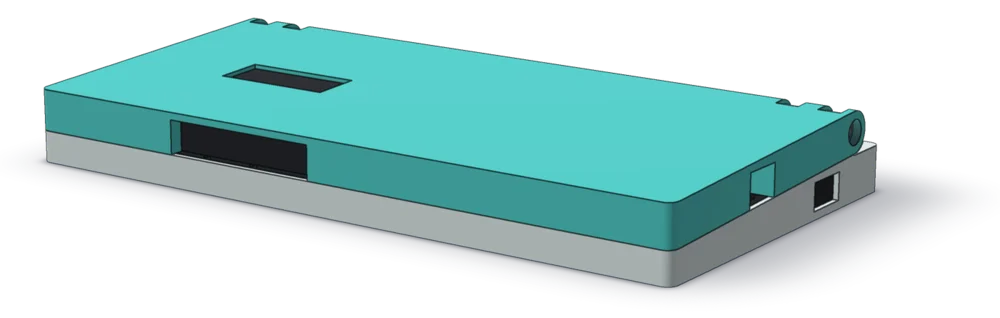
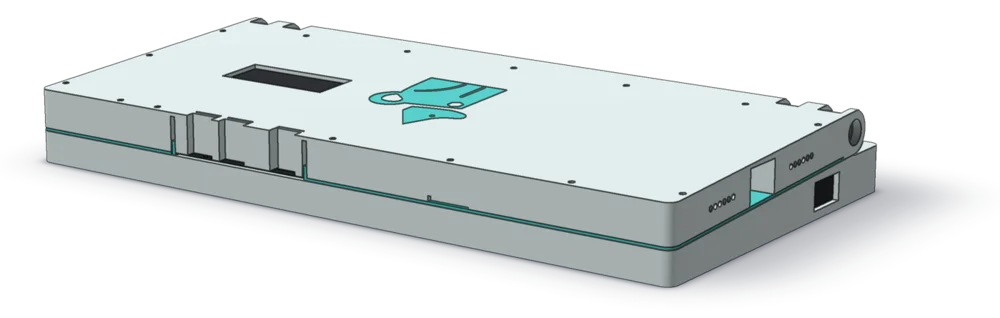
Сайт: прозрачные крышка и база, бирюзовые рамка и логотип; фраза под таблицей версий

diff --git a/index.html b/index.html
@@ -56,8 +56,8 @@
     <p class="status"><strong>Skladen 2.1.1 напечатан и собран.</strong> skladenOS в разработке: готовых образов пока нет.</p>
   </div>
   <figure class="shot">
-    <img src="assets/img/skladen2-photo.jpg" width="1100" height="825" alt="Напечатанный Skladen 2.1.1 на столе, открытый: Pocophone F1 под рамкой на защёлках в бирюзовой крышке, клавиатура Jomaa в прозрачном основании">
-    <figcaption>Skladen 2.1.1: Pocophone F1 в бирюзовой крышке из PETG, клавиатура Jomaa в прозрачном основании. На экране рабочая сборка, из которой вырастает skladenOS.</figcaption>
+    <img src="assets/img/skladen2-photo.jpg" width="1100" height="825" alt="Напечатанный Skladen 2.1.1 на столе, открытый: Pocophone F1 под рамкой на защёлках в прозрачной крышке, клавиатура Jomaa в прозрачном основании, бирюзовые рамка и логотип">
+    <figcaption>Skladen 2.1.1: Pocophone F1 в прозрачной крышке из PETG с бирюзовой рамкой и логотипом, клавиатура Jomaa в прозрачном основании. На экране рабочая сборка, из которой вырастает skladenOS.</figcaption>
   </figure>
 </div>
 
@@ -67,7 +67,7 @@
 <dl class="feat"><dt>Телефон</dt><dd>Xiaomi Pocophone F1, 155,5 × 75,3 × 9,25 мм, 182 г</dd><dt>Клавиатура</dt><dd>Jomaa KEYBOARD098RU</dd><dt>В сложенном виде</dt><dd>24,29 мм у петли, 20,31 мм спереди</dd><dt>Масса</dt><dd>около 403 г по модели</dd></dl>
 <h3>Версии</h3>
 <div class="table-wrap"><table class="ver"><thead><tr><th scope="col">Версия</th><th scope="col">Что это</th><th scope="col">Дата</th></tr></thead><tbody><tr><td><a href="https://github.com/mitya-labs/skladen/tree/v2.1.1">2.1.1</a></td><td>Рёбра обжима и язычки кнопок в крышке с рамкой; напечатан</td><td>2026-10-24</td></tr><tr><td><a href="https://github.com/mitya-labs/skladen/tree/v2.1.0">2.1.0</a></td><td>Skladen 2 с рамкой на защёлках; напечатан</td><td>2026-10-20</td></tr><tr><td><a href="https://github.com/mitya-labs/skladen/tree/v2.0.0">2.0.0</a></td><td>Skladen 2 под Pocophone F1, телефон на ленте; напечатан</td><td>2026-10-06</td></tr><tr><td><a href="https://github.com/mitya-labs/skladen/tree/v1.0.0">1.0.0</a></td><td>Skladen 1 под Pixel 3a XL; напечатан</td><td>2026-10-02</td></tr></tbody></table></div>
-<p class="note">Размеры и масса взяты из модели, замеры напечатанных экземпляров ещё не сведены. Последние правки рамки смоделированы и проверены, на печати не подтверждены.</p>
+<p class="note">Размеры и масса взяты из модели, замеры напечатанных экземпляров ещё не сведены. Рёбра обжима и язычки кнопок в 2.1.1 подтверждены печатью; остальные правки рамки (отверстия для выталкивания, динамик и микрофон, закрытие челки, основание с окном под переключатель) смоделированы и проверены, на печати пока не подтверждены.</p>
 <figure class="render"><img src="assets/img/skladen2-open.webp" width="1000" height="726" alt="Skladen 2, открытый на 112 градусов: в крышке телефон с терминалом, в основании клавиатура" loading="lazy"><figcaption>Открытый на 112°. Рендер из модели; телефон и клавиатура заменены заготовками по измеренным габаритам.</figcaption></figure>
 <figure class="render"><img src="assets/img/skladen2-closed.webp" width="1000" height="318" alt="Skladen 2 в сложенном виде, вид спереди справа" loading="lazy"><figcaption>Сложенный: 24,29 мм у петли.</figcaption></figure>
 <p class="note">Конструкция открыта под CERN-OHL-S-2.0. Исходники, документы и список изменений: <a href="https://github.com/mitya-labs/skladen">репозиторий Skladen</a>.</p>

diff --git a/en/index.html b/en/index.html
@@ -56,8 +56,8 @@
     <p class="status"><strong>Skladen 2.1.1 is printed and assembled.</strong> skladenOS is in development: there are no images yet.</p>
   </div>
   <figure class="shot">
-    <img src="../assets/img/skladen2-photo.jpg" width="1100" height="825" alt="The printed Skladen 2.1.1 on a desk, open: a Pocophone F1 under the clip-on bezel in a teal lid, the Jomaa keyboard in a clear base">
-    <figcaption>Skladen 2.1.1: a Pocophone F1 in a teal PETG lid, the Jomaa keyboard in a clear base. The screen runs the working build skladenOS grows out of.</figcaption>
+    <img src="../assets/img/skladen2-photo.jpg" width="1100" height="825" alt="The printed Skladen 2.1.1 on a desk, open: a Pocophone F1 under the clip-on bezel in a clear lid with a teal bezel and logo, the Jomaa keyboard in a clear base">
+    <figcaption>Skladen 2.1.1: a Pocophone F1 in a clear PETG lid with a teal bezel and logo, the Jomaa keyboard in a clear base. The screen runs the working build skladenOS grows out of.</figcaption>
   </figure>
 </div>
 
@@ -67,7 +67,7 @@
 <dl class="feat"><dt>Phone</dt><dd>Xiaomi Pocophone F1, 155.5 × 75.3 × 9.25 mm, 182 g</dd><dt>Keyboard</dt><dd>Jomaa KEYBOARD098RU</dd><dt>Closed</dt><dd>24.29 mm at the hinge, 20.31 mm at the front</dd><dt>Mass</dt><dd>about 403 g by the model</dd></dl>
 <h3>Versions</h3>
 <div class="table-wrap"><table class="ver"><thead><tr><th scope="col">Version</th><th scope="col">What</th><th scope="col">Date</th></tr></thead><tbody><tr><td><a href="https://github.com/mitya-labs/skladen/tree/v2.1.1">2.1.1</a></td><td>Crush ribs and button tongues in the bezel lid; printed</td><td>2026-10-24</td></tr><tr><td><a href="https://github.com/mitya-labs/skladen/tree/v2.1.0">2.1.0</a></td><td>Skladen 2 with the clip-on bezel; printed</td><td>2026-10-20</td></tr><tr><td><a href="https://github.com/mitya-labs/skladen/tree/v2.0.0">2.0.0</a></td><td>Skladen 2 for the Pocophone F1, phone held by tape; printed</td><td>2026-10-06</td></tr><tr><td><a href="https://github.com/mitya-labs/skladen/tree/v1.0.0">1.0.0</a></td><td>Skladen 1 for the Pixel 3a XL; printed</td><td>2026-10-02</td></tr></tbody></table></div>
-<p class="note">Dimensions and mass come from the model; measurements of the printed units are not collected yet. The latest bezel revisions are modelled and checked but not confirmed on a print.</p>
+<p class="note">Dimensions and mass come from the model; measurements of the printed units are not collected yet. The crush ribs and button tongues of 2.1.1 are confirmed on a print; the other bezel revisions (eject holes, speaker and microphone openings, the notch cover, the switch-window base) are modelled and checked but not yet confirmed.</p>
 <figure class="render"><img src="../assets/img/skladen2-open.webp" width="1000" height="726" alt="Skladen 2 rendered open at 112 degrees: the phone in the lid showing a terminal, the keyboard in the base" loading="lazy"><figcaption>Open at 112°. A render from the model; the phone and keyboard are stand-ins built from their measured envelopes.</figcaption></figure>
 <figure class="render"><img src="../assets/img/skladen2-closed.webp" width="1000" height="318" alt="Skladen 2 rendered closed, seen from the front right" loading="lazy"><figcaption>Closed: 24.29 mm at the hinge.</figcaption></figure>
 <p class="note">The design is open under CERN-OHL-S-2.0. Sources, docs and the changelog: the <a href="https://github.com/mitya-labs/skladen">Skladen repository</a>.</p>

diff --git a/tools/build.py b/tools/build.py
@@ -141,8 +141,8 @@ RU = dict(
     h1="Палмтоп из телефона и клавиатуры",
     lede="Mitya Labs делает Skladen: напечатанный на 3D-принтере палмтоп, который превращает Xiaomi Pocophone F1 в карманный терминал в форме ноутбука, и skladenOS, систему для него.",
     status="<strong>Skladen 2.1.1 напечатан и собран.</strong> skladenOS в разработке: готовых образов пока нет.",
-    photo_alt="Напечатанный Skladen 2.1.1 на столе, открытый: Pocophone F1 под рамкой на защёлках в бирюзовой крышке, клавиатура Jomaa в прозрачном основании",
-    photo_cap="Skladen 2.1.1: Pocophone F1 в бирюзовой крышке из PETG, клавиатура Jomaa в прозрачном основании. На экране рабочая сборка, из которой вырастает skladenOS.",
+    photo_alt="Напечатанный Skladen 2.1.1 на столе, открытый: Pocophone F1 под рамкой на защёлках в прозрачной крышке, клавиатура Jomaa в прозрачном основании, бирюзовые рамка и логотип",
+    photo_cap="Skladen 2.1.1: Pocophone F1 в прозрачной крышке из PETG с бирюзовой рамкой и логотипом, клавиатура Jomaa в прозрачном основании. На экране рабочая сборка, из которой вырастает skladenOS.",
     cfg_h="Конфигуратор", cfg=configurator("Выберите детали Skladen 2 (крышку, рамку, базу) и скачайте файл для печати: STL или 3MF.", "Skladen 2 в сборке, можно вращать и раскрывать", "Открыть конфигуратор →", "ru"),
     s5h="Основа и права", s6h="Где следить",
     foot="© 2026 Mitya Labs. Страница обновляется по мере продвижения проектов.",
@@ -160,7 +160,7 @@ RU["sk"] = "\n".join([
         ('<a href="%s/tree/v2.1.0">2.1.0</a>' % SK, "Skladen 2 с рамкой на защёлках; напечатан", "2026-10-20"),
         ('<a href="%s/tree/v2.0.0">2.0.0</a>' % SK, "Skladen 2 под Pocophone F1, телефон на ленте; напечатан", "2026-10-06"),
         ('<a href="%s/tree/v1.0.0">1.0.0</a>' % SK, "Skladen 1 под Pixel 3a XL; напечатан", "2026-10-02")]),
-    '<p class="note">Размеры и масса взяты из модели, замеры напечатанных экземпляров ещё не сведены. Последние правки рамки смоделированы и проверены, на печати не подтверждены.</p>',
+    '<p class="note">Размеры и масса взяты из модели, замеры напечатанных экземпляров ещё не сведены. Рёбра обжима и язычки кнопок в 2.1.1 подтверждены печатью; остальные правки рамки (отверстия для выталкивания, динамик и микрофон, закрытие челки, основание с окном под переключатель) смоделированы и проверены, на печати пока не подтверждены.</p>',
     figure("assets/img/skladen2-open.webp", 1000, 726, "Skladen 2, открытый на 112 градусов: в крышке телефон с терминалом, в основании клавиатура", "Открытый на 112°. Рендер из модели; телефон и клавиатура заменены заготовками по измеренным габаритам."),
     figure("assets/img/skladen2-closed.webp", 1000, 318, "Skladen 2 в сложенном виде, вид спереди справа", "Сложенный: 24,29 мм у петли."),
     '<p class="note">Конструкция открыта под CERN-OHL-S-2.0. Исходники, документы и список изменений: <a href="%s">репозиторий Skladen</a>.</p>' % SK,
@@ -200,8 +200,8 @@ EN = dict(
     h1="A palmtop made of a phone and a keyboard",
     lede="Mitya Labs builds Skladen, a 3D-printed palmtop that turns a Xiaomi Pocophone F1 into a pocketable laptop-shaped terminal, and skladenOS, the system for it.",
     status="<strong>Skladen 2.1.1 is printed and assembled.</strong> skladenOS is in development: there are no images yet.",
-    photo_alt="The printed Skladen 2.1.1 on a desk, open: a Pocophone F1 under the clip-on bezel in a teal lid, the Jomaa keyboard in a clear base",
-    photo_cap="Skladen 2.1.1: a Pocophone F1 in a teal PETG lid, the Jomaa keyboard in a clear base. The screen runs the working build skladenOS grows out of.",
+    photo_alt="The printed Skladen 2.1.1 on a desk, open: a Pocophone F1 under the clip-on bezel in a clear lid with a teal bezel and logo, the Jomaa keyboard in a clear base",
+    photo_cap="Skladen 2.1.1: a Pocophone F1 in a clear PETG lid with a teal bezel and logo, the Jomaa keyboard in a clear base. The screen runs the working build skladenOS grows out of.",
     cfg_h="Configurator", cfg=configurator("Pick the Skladen 2 parts (lid, frame, base) and download a print file: STL or 3MF.", "Skladen 2 assembled: rotate it, open and close the lid", "Open the configurator →", "en"),
     s5h="Basis and rights", s6h="Follow along",
     foot="© 2026 Mitya Labs. This page is updated as the projects move along.",
@@ -219,7 +219,7 @@ EN["sk"] = "\n".join([
         ('<a href="%s/tree/v2.1.0">2.1.0</a>' % SK, "Skladen 2 with the clip-on bezel; printed", "2026-10-20"),
         ('<a href="%s/tree/v2.0.0">2.0.0</a>' % SK, "Skladen 2 for the Pocophone F1, phone held by tape; printed", "2026-10-06"),
         ('<a href="%s/tree/v1.0.0">1.0.0</a>' % SK, "Skladen 1 for the Pixel 3a XL; printed", "2026-10-02")]),
-    '<p class="note">Dimensions and mass come from the model; measurements of the printed units are not collected yet. The latest bezel revisions are modelled and checked but not confirmed on a print.</p>',
+    '<p class="note">Dimensions and mass come from the model; measurements of the printed units are not collected yet. The crush ribs and button tongues of 2.1.1 are confirmed on a print; the other bezel revisions (eject holes, speaker and microphone openings, the notch cover, the switch-window base) are modelled and checked but not yet confirmed.</p>',
     figure("../assets/img/skladen2-open.webp", 1000, 726, "Skladen 2 rendered open at 112 degrees: the phone in the lid showing a terminal, the keyboard in the base", "Open at 112°. A render from the model; the phone and keyboard are stand-ins built from their measured envelopes."),
     figure("../assets/img/skladen2-closed.webp", 1000, 318, "Skladen 2 rendered closed, seen from the front right", "Closed: 24.29 mm at the hinge."),
     '<p class="note">The design is open under CERN-OHL-S-2.0. Sources, docs and the changelog: the <a href="%s">Skladen repository</a>.</p>' % SK,
